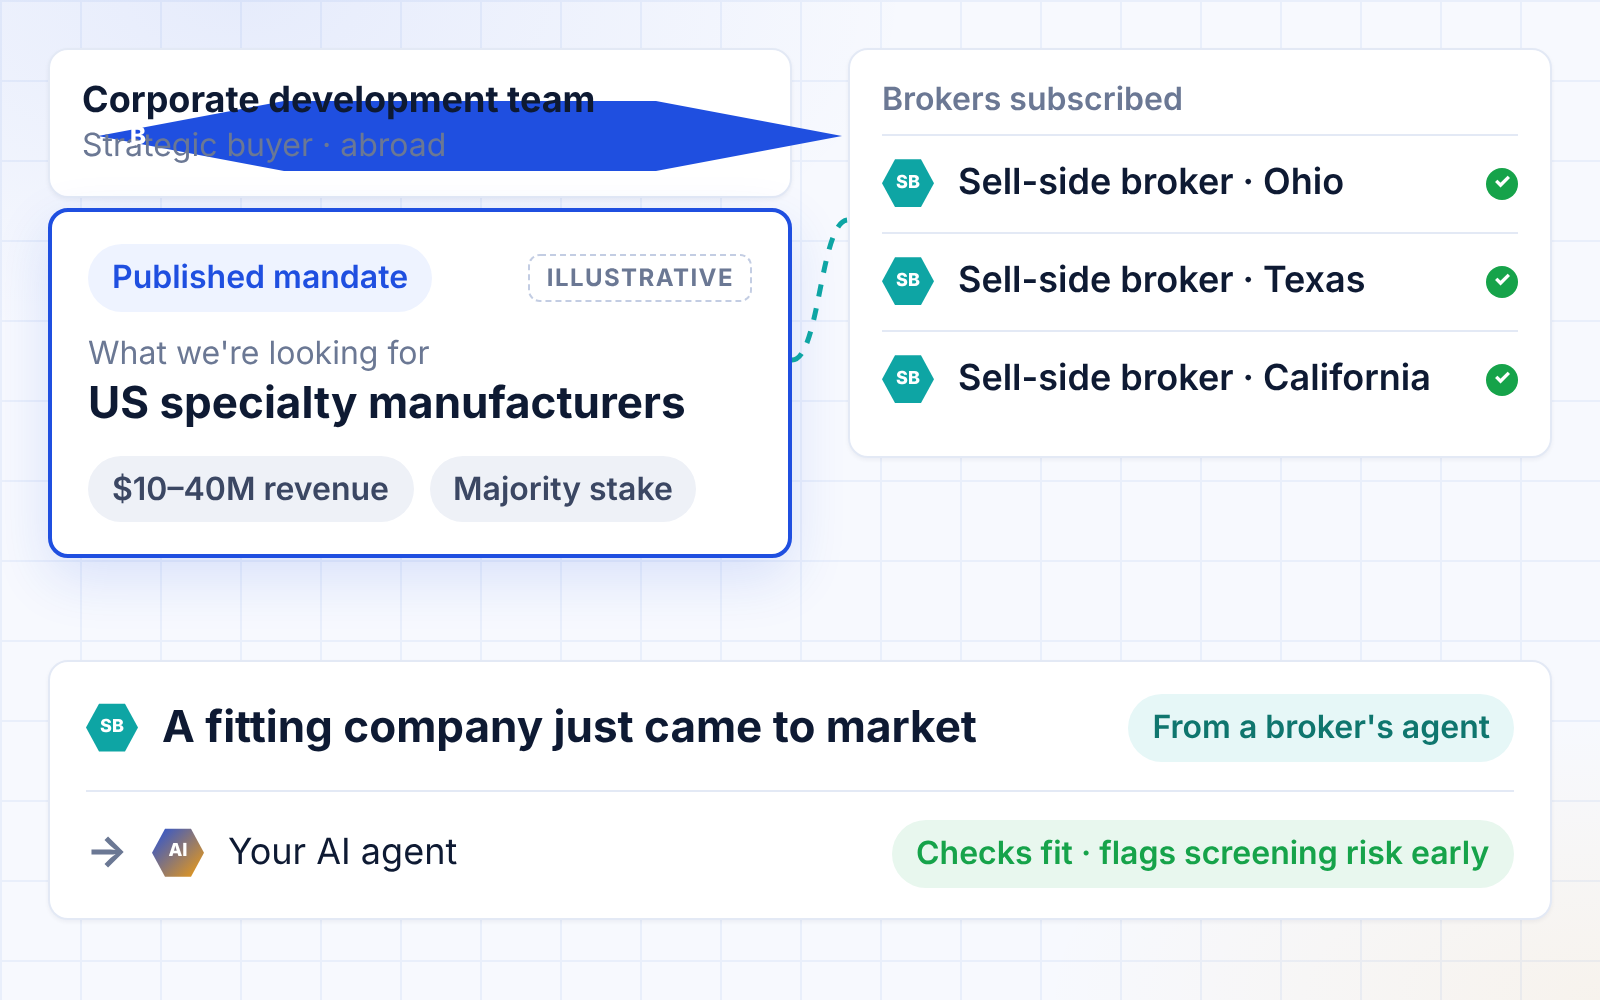
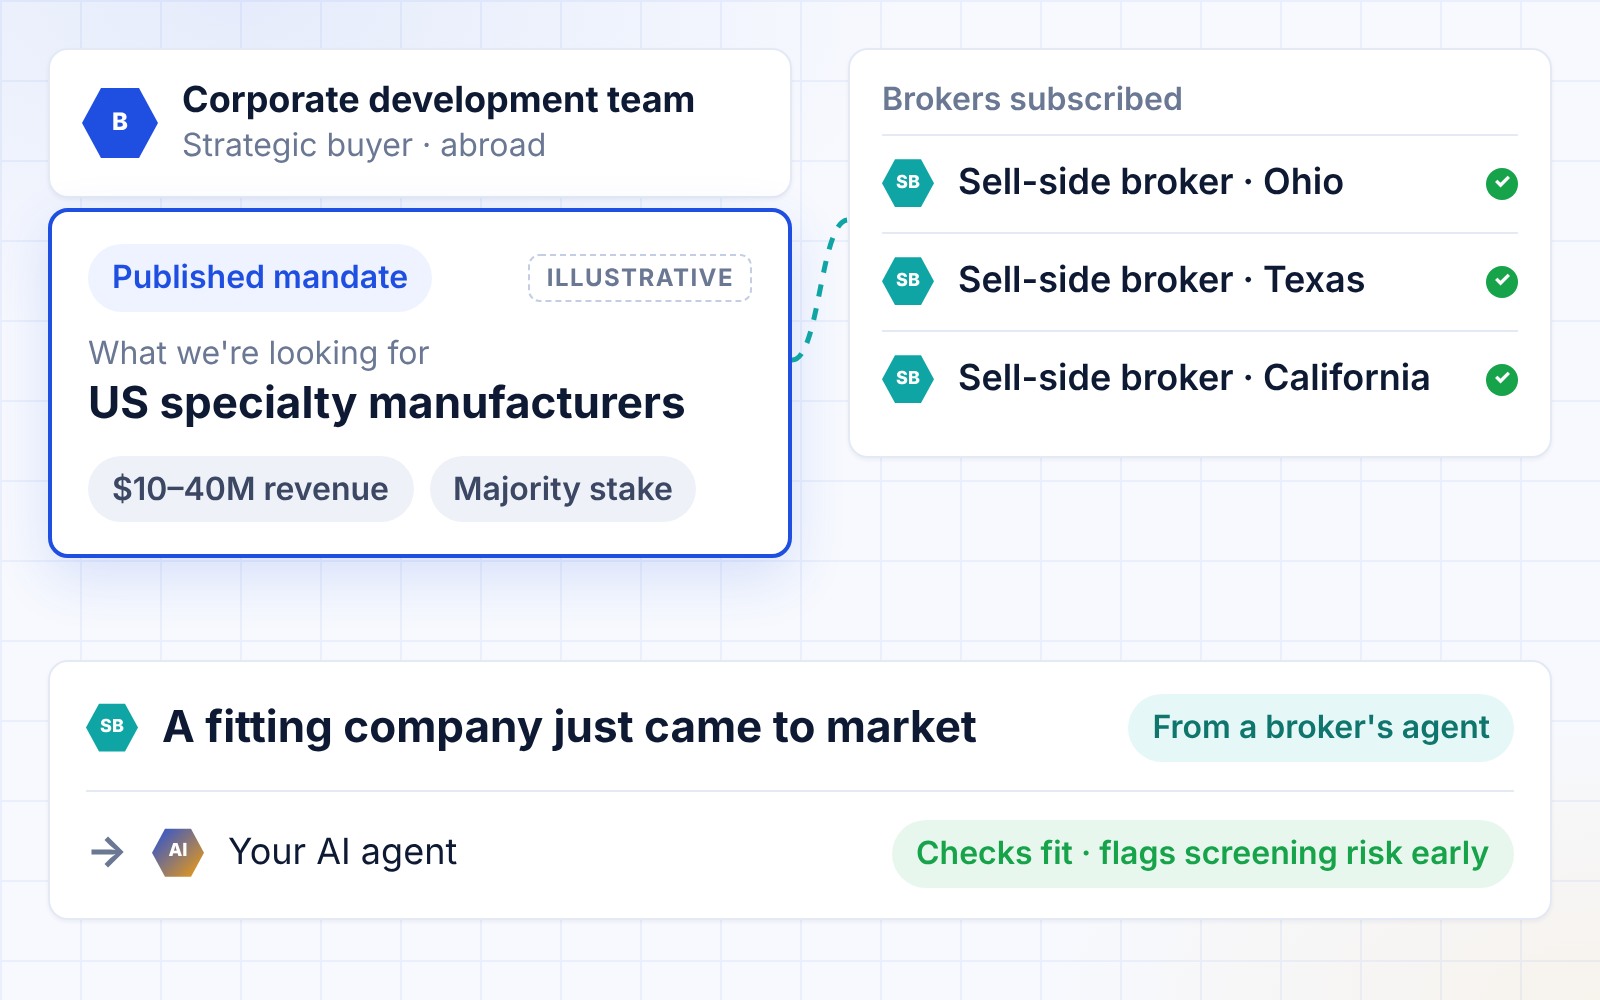
Add persona hero GIFs (buy-side book, strategic mandate, PE exit/add-on); fix seat card images and hero layout
Claude-Session: https://claude.ai/code/session_013sJALjyn2FyxQTA8AYsoWu

Changed region(s): [[0.0312, 0.062, 0.5312, 0.186]]

diff --git a/site/assets/css/site.css b/site/assets/css/site.css
@@ -209,7 +209,7 @@ footer .legal{margin-top:32px;padding-top:20px;border-top:1px solid var(--line);
 .seat{display:flex;flex-direction:column;background:#fff;border:1px solid var(--line);border-top:4px solid var(--pc);border-radius:var(--radius);overflow:hidden;color:var(--ink);box-shadow:0 1px 2px rgba(14,26,51,.04);transition:transform .15s,box-shadow .15s}
 .seat:hover{text-decoration:none;transform:translateY(-2px);box-shadow:var(--shadow)}
 .seat:focus-visible{outline:3px solid var(--blue);outline-offset:2px}
-.seat img{aspect-ratio:16/10;width:100%;object-fit:cover;border-bottom:1px solid var(--line)}
+.seat img{aspect-ratio:16/10;width:100%;height:auto;object-fit:cover;border-bottom:1px solid var(--line)}
 .seat > div{padding:16px 18px 18px;display:flex;flex-direction:column;gap:6px;flex:1}
 .seat .role{font-size:12px;font-weight:700;letter-spacing:.1em;text-transform:uppercase;color:var(--pc)}
 .seat h3{font-size:18px;margin:0}
@@ -217,3 +217,5 @@ footer .legal{margin-top:32px;padding-top:20px;border-top:1px solid var(--line);
 .seat-more{margin-top:20px;font-size:15px}
 .faq-group h3{display:flex;flex-wrap:wrap;align-items:baseline;gap:6px 14px}
 .more-link{font-size:14px;font-weight:600}
+.hero .category{max-width:none}
+@media (min-width:961px){.hero .wrap{grid-template-columns:1.05fr 1fr}}
